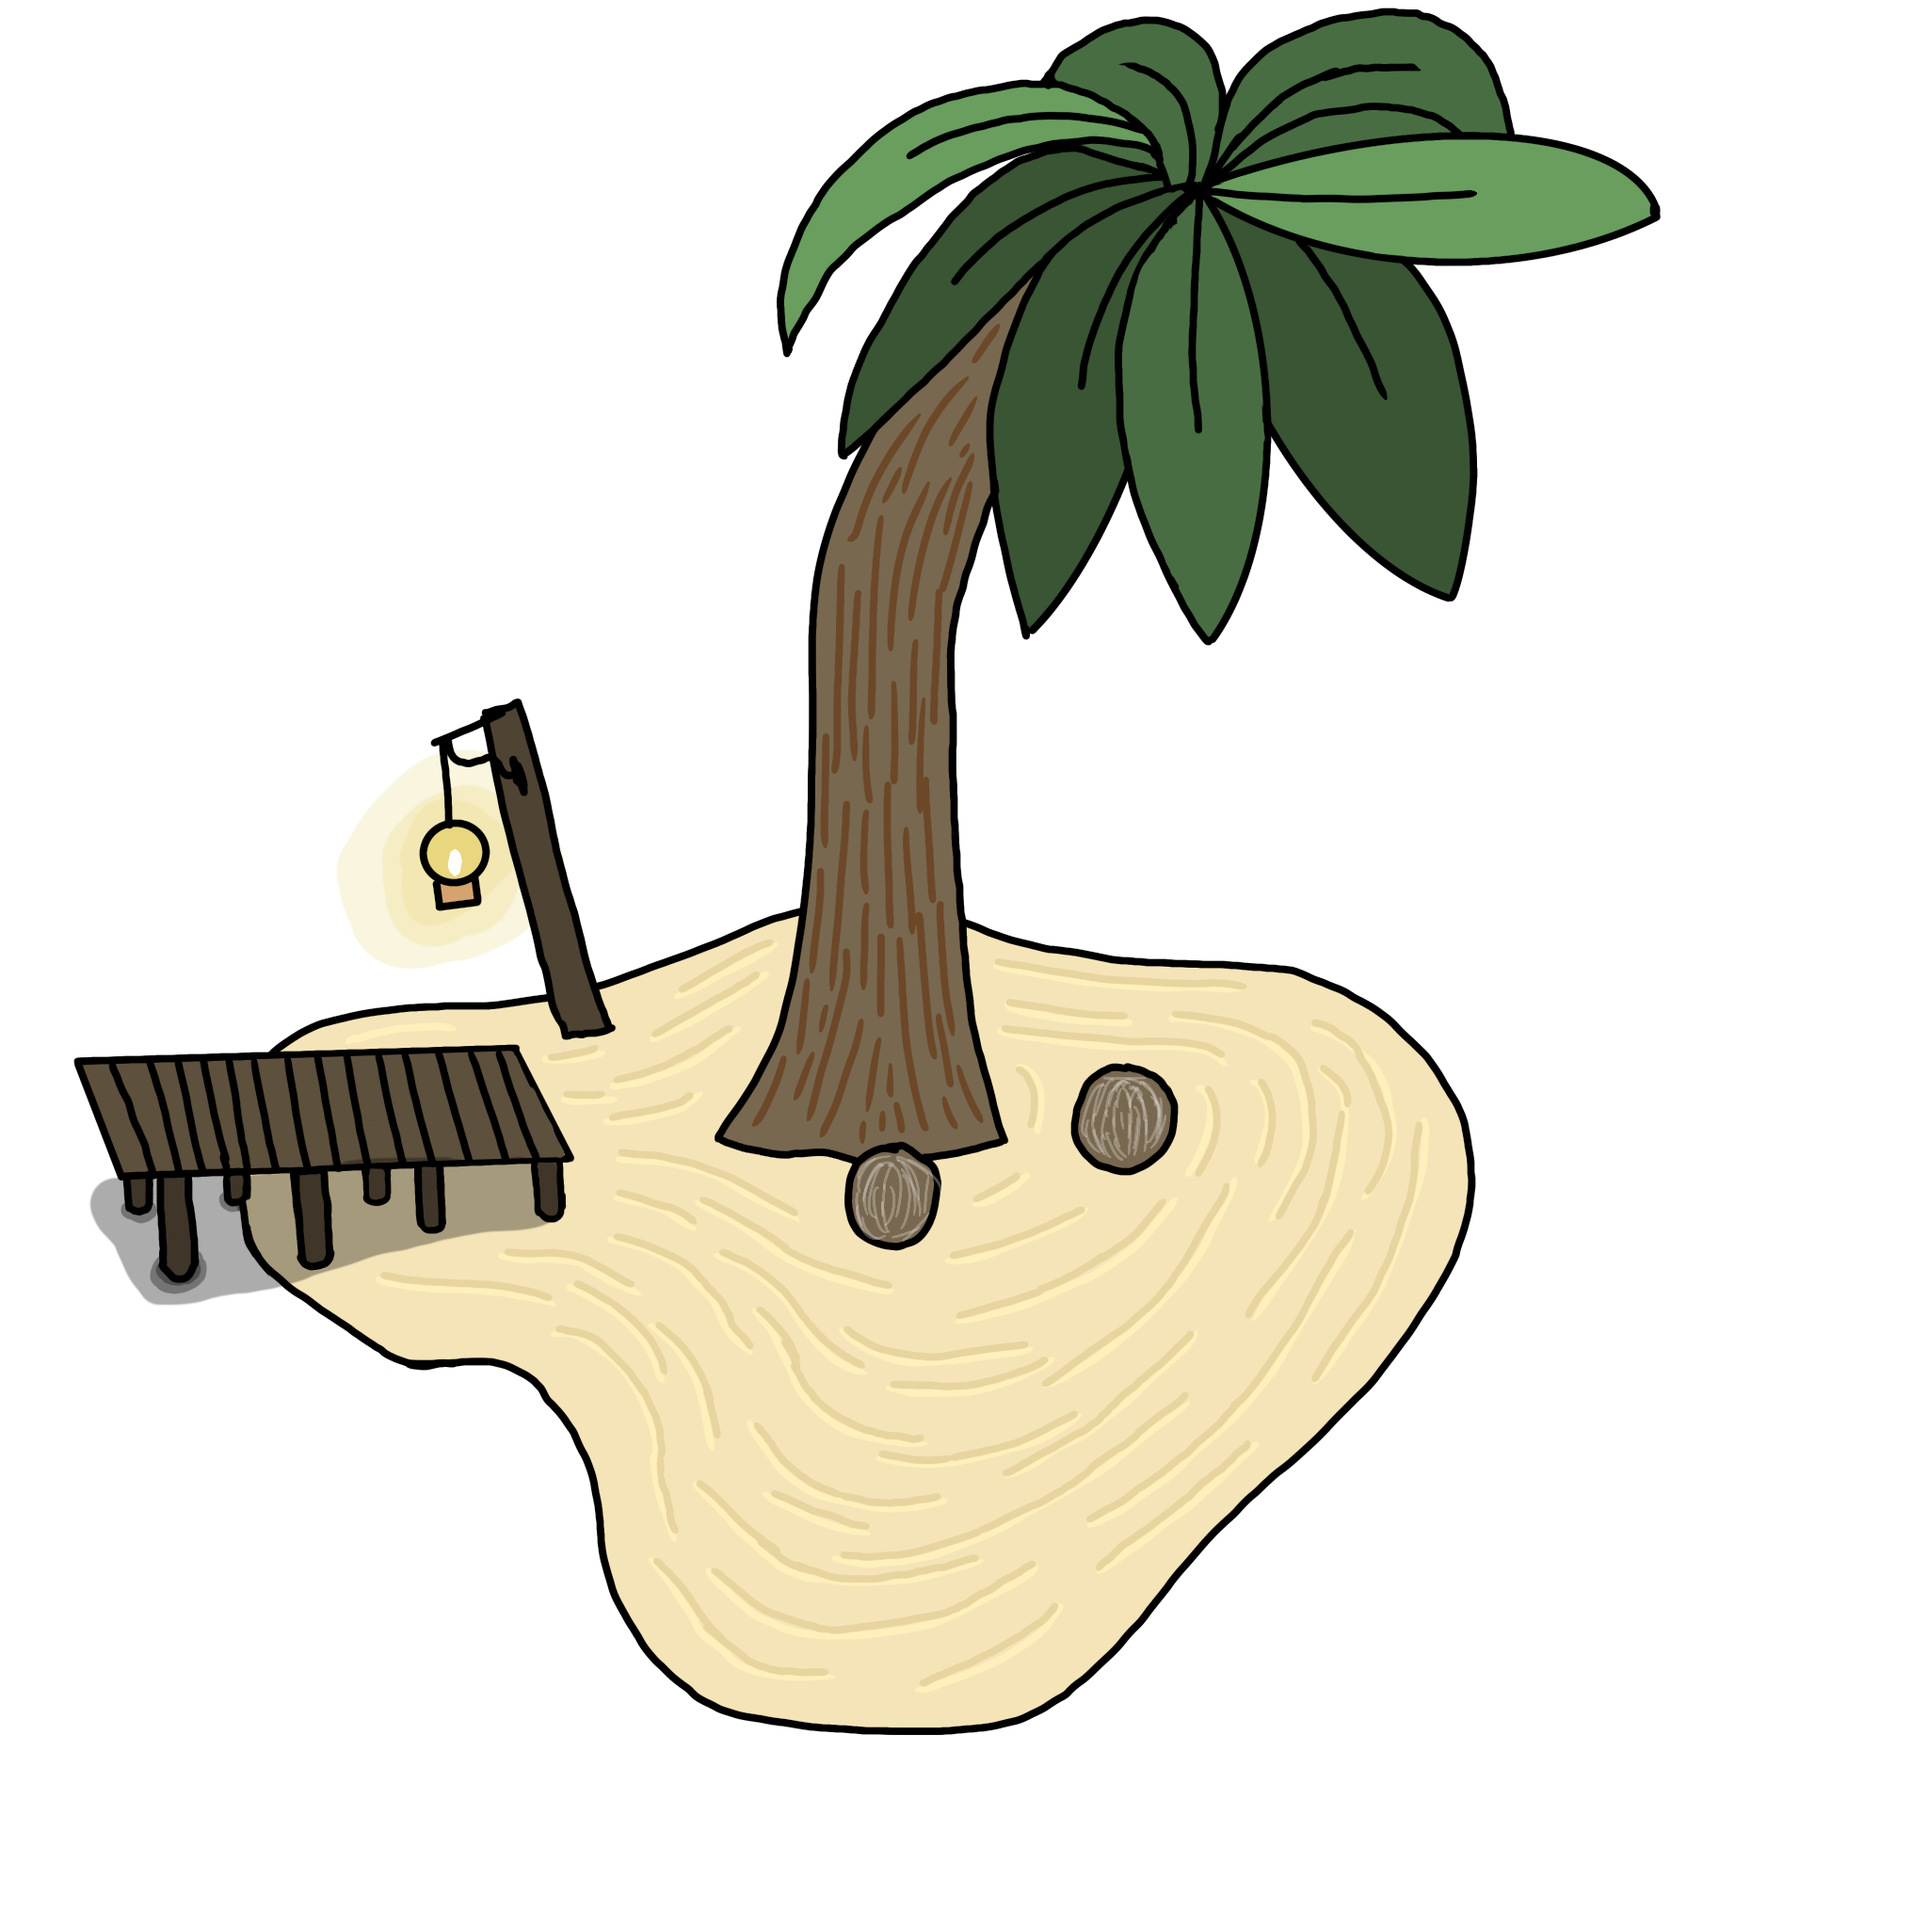
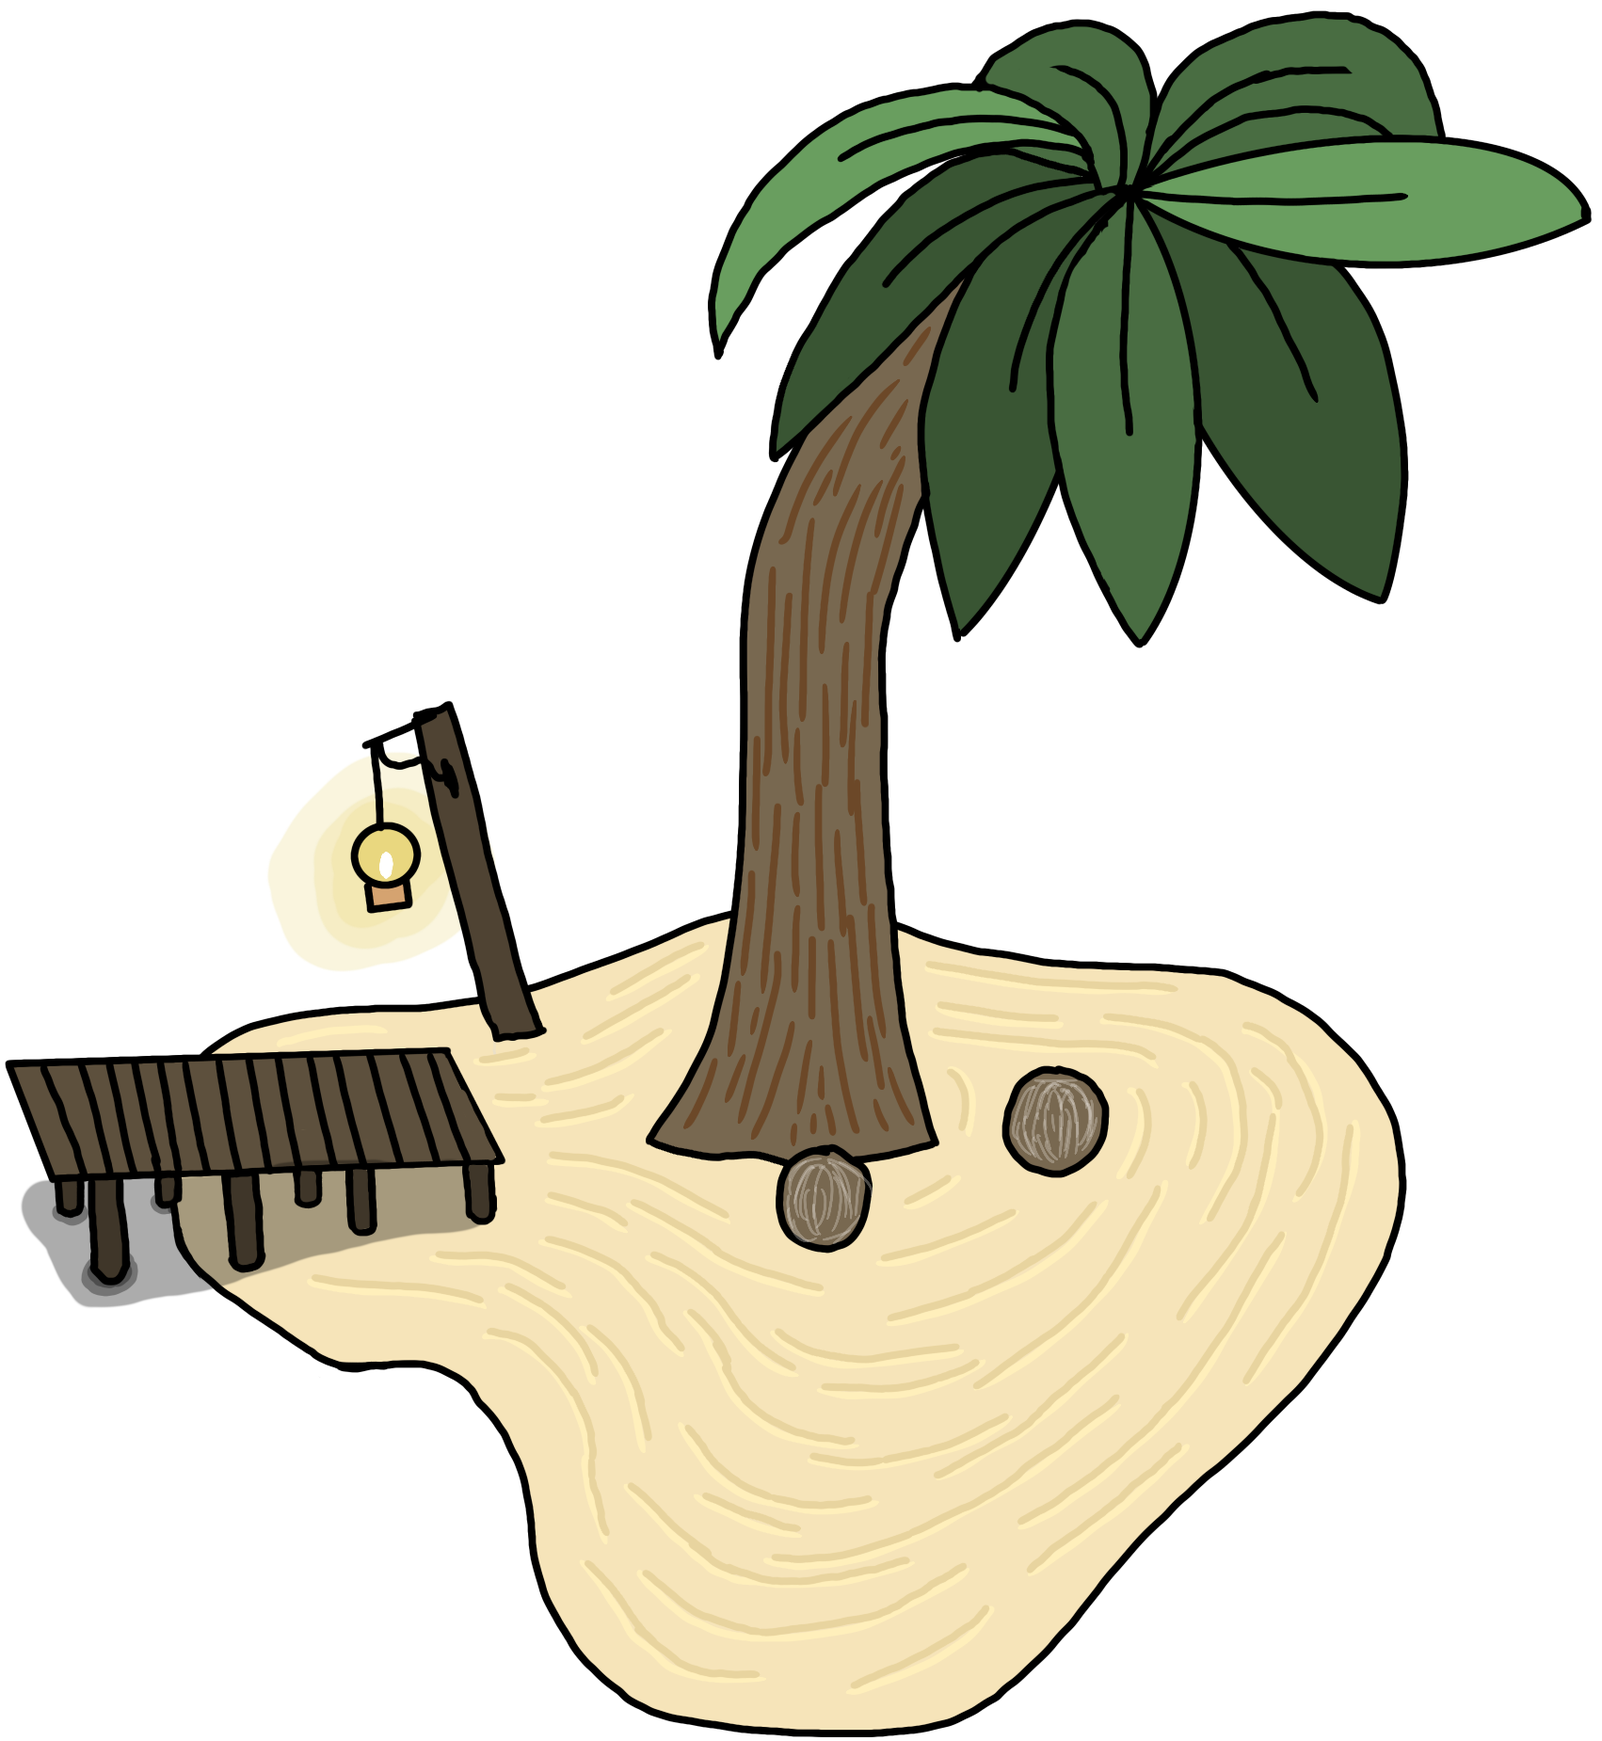
goal island texture scaling improvement

diff --git a/TechnicalPrototype/core/src/edu/cornell/gdiac/raftoftheseus/model/Goal.java b/TechnicalPrototype/core/src/edu/cornell/gdiac/raftoftheseus/model/Goal.java
@@ -20,7 +20,7 @@ public class Goal extends GameObject {
 
     @Override
     protected void setTextureTransform() {
-        float w = getWidth() / texture.getRegionWidth();
+        float w = getWidth() / texture.getRegionWidth() * 1.31f;
         textureScale = new Vector2(w, w);
         textureOffset = new Vector2(0.0f,(texture.getRegionHeight()*textureScale.y - getHeight())/2f);
     }
